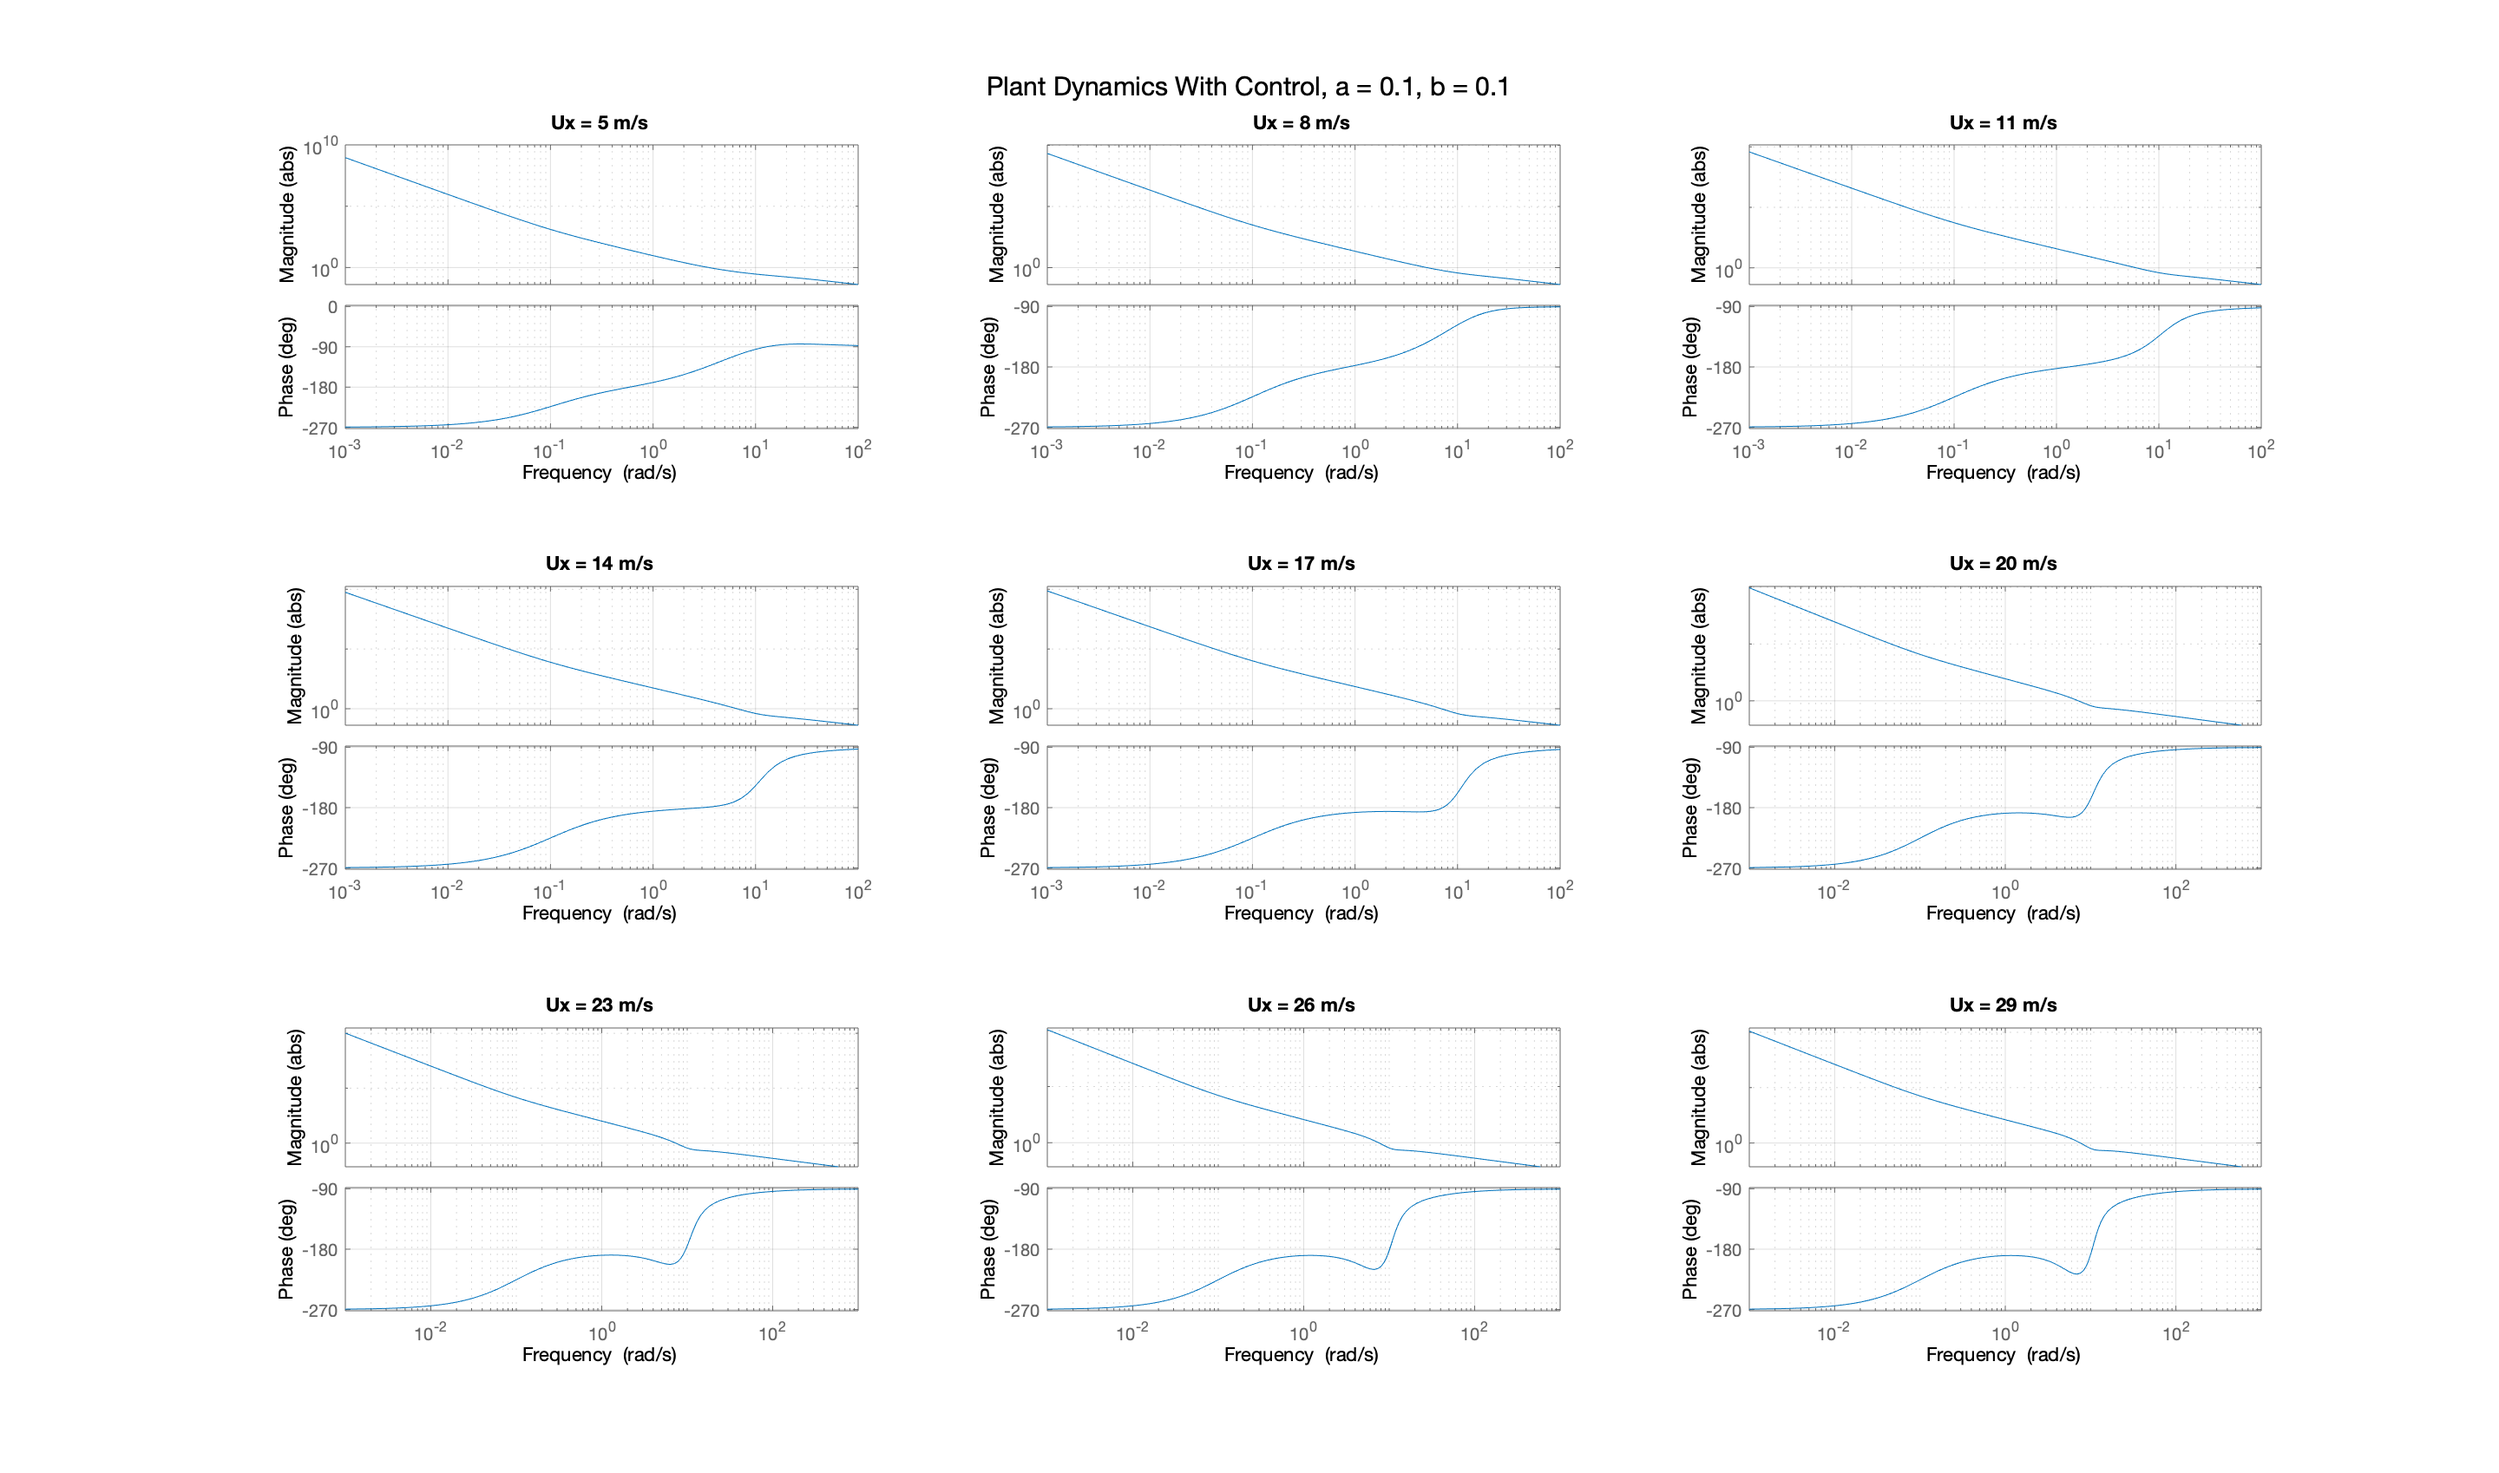
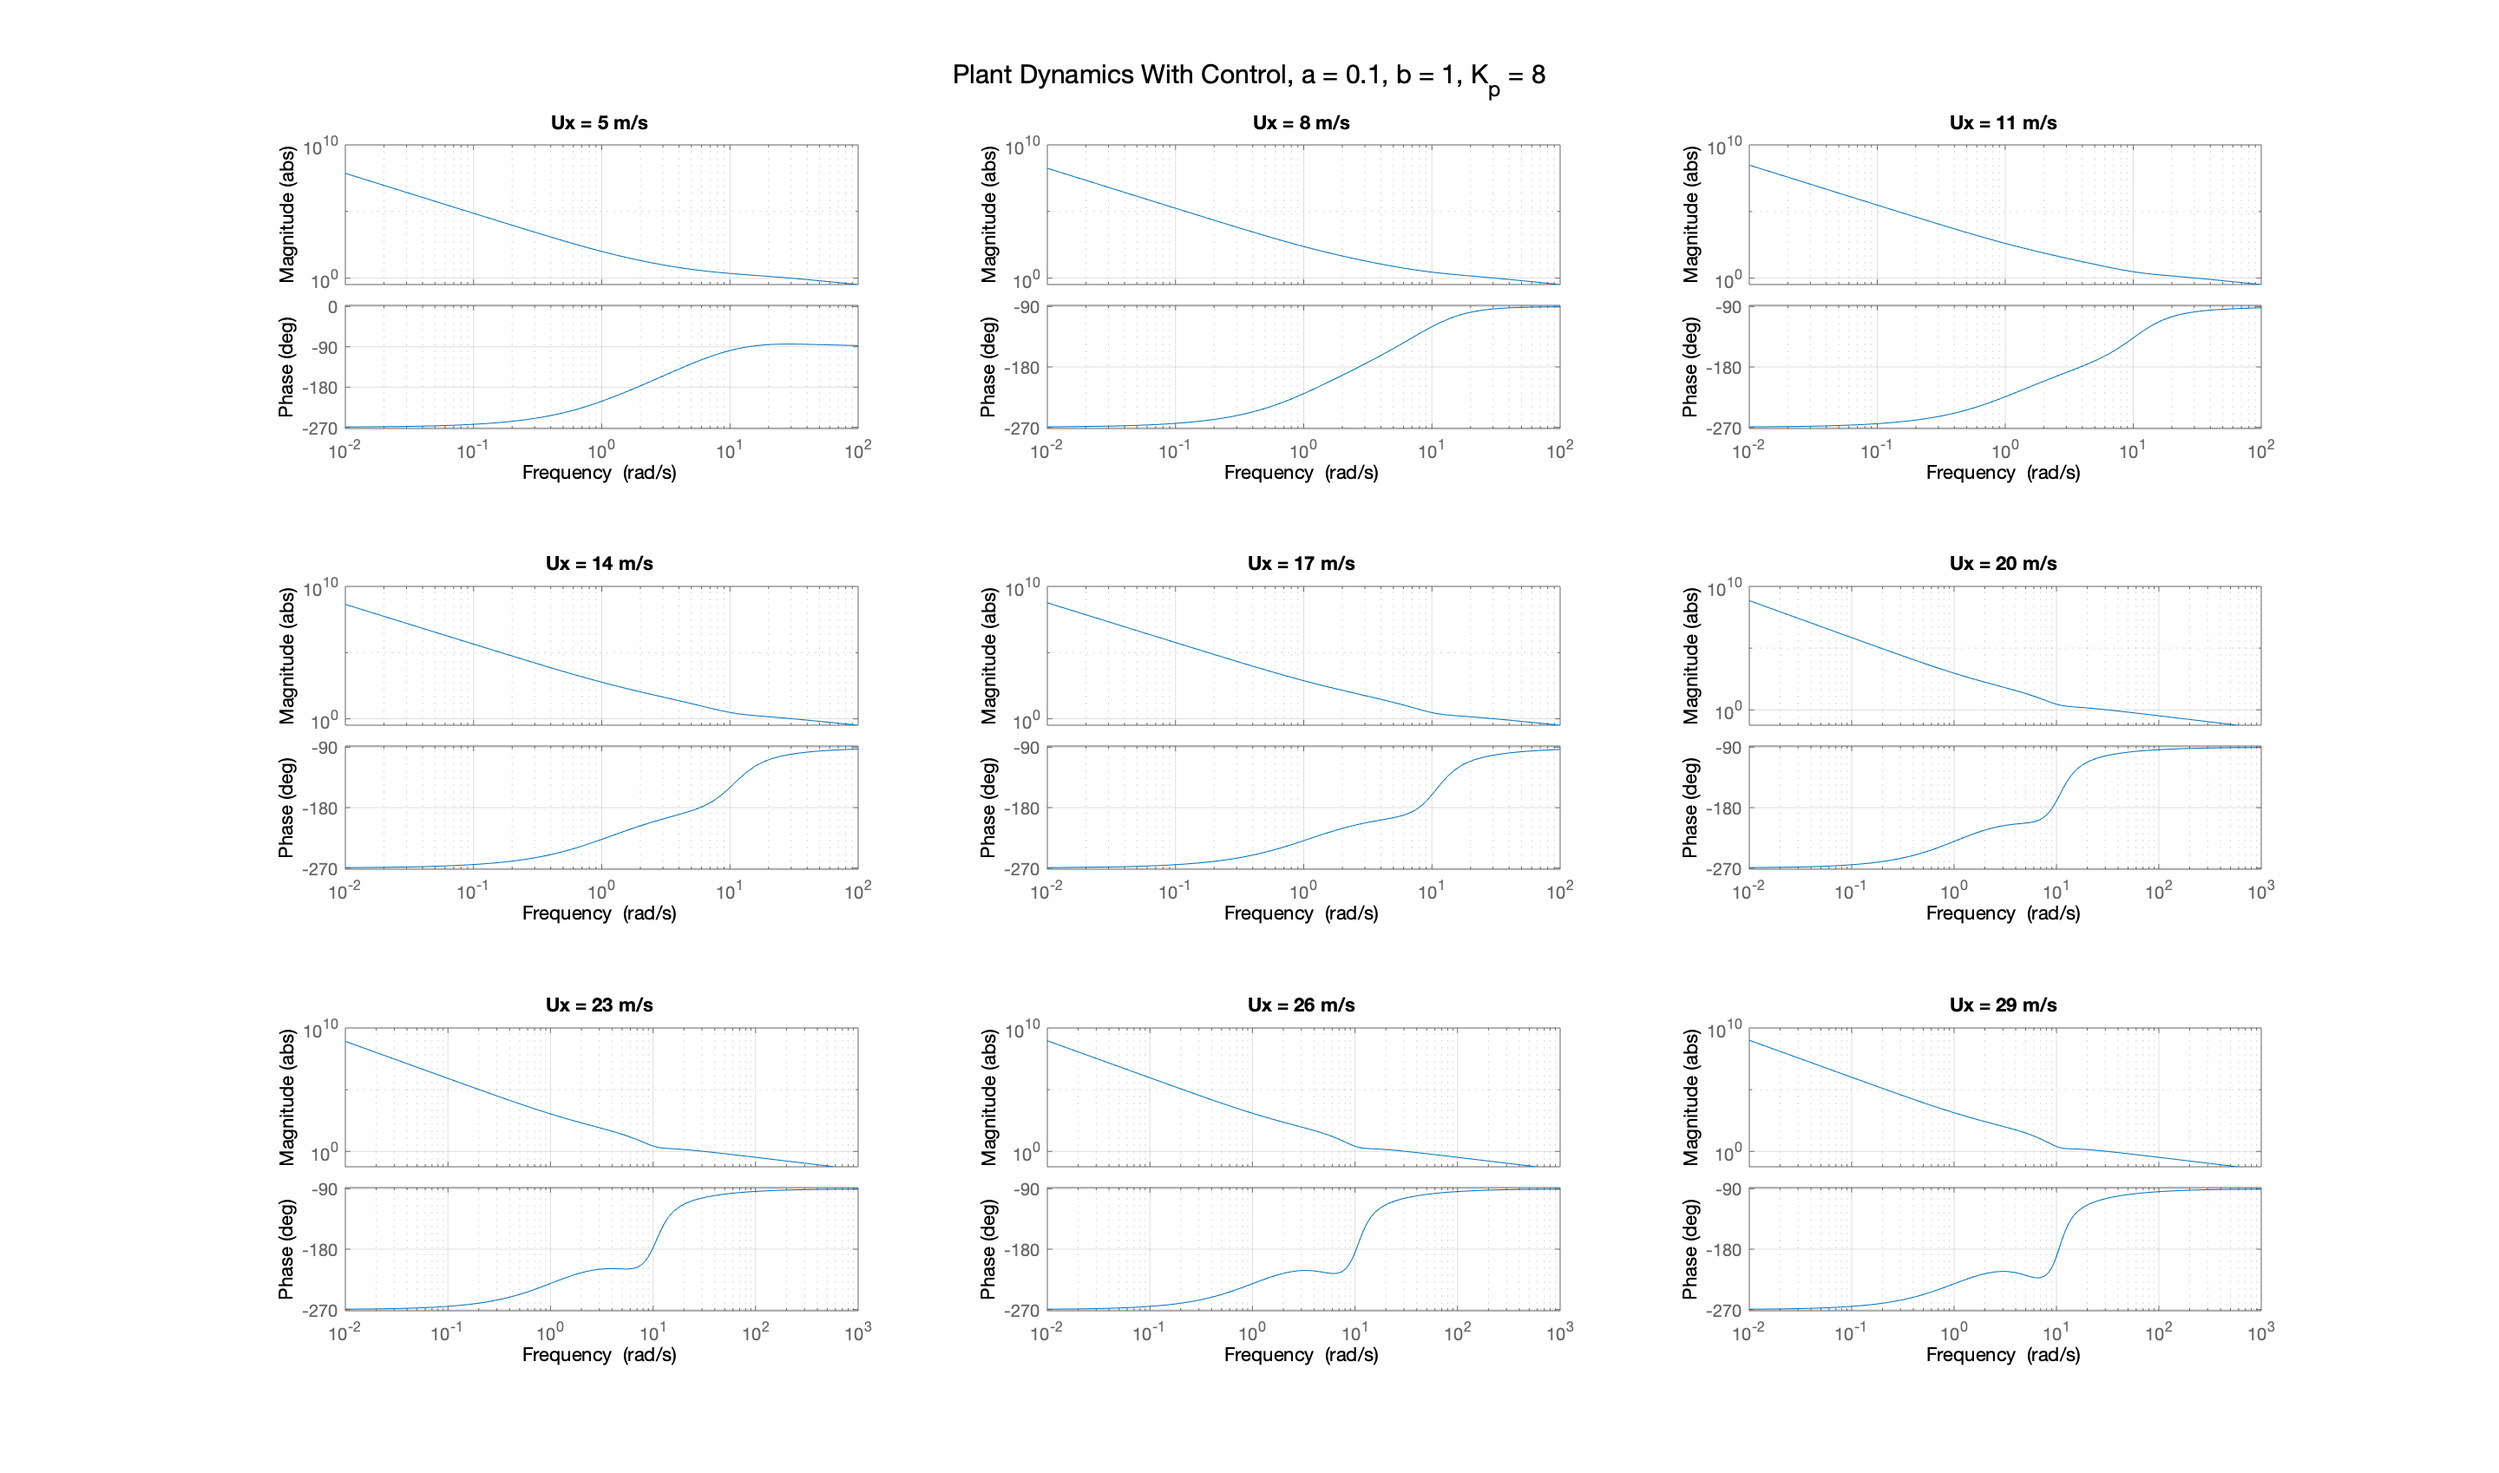
Run new simulations and generate plots, begin exploring how to generate bode plots for lookahead controller (not finished)

diff --git a/bode_for_lookahead.m b/bode_for_lookahead.m
@@ -1,6 +1,12 @@
 %--------------------------------------------------------------------------
 %% CONSTANTS AND PARAMS
 %--------------------------------------------------------------------------
+% !!! NOTE !!!  THIS DOESN'T CURRENTLY WORK; I THINK I DID BODE FOR THE
+% CLOSED-LOOP SYSTEM AND NEED TO DO IT FOR THE OPEN-LOOP SYSTEM AS I DID
+% FOR THE PID CONTROLLER.  NEED TO FIND A TRANSFER FUNCTION FOR THE
+% LOOKAHEAD CONTROLLER ON ITS OWN, THEN CAN COMBINE WITH THE PLANT DYNAMICS
+% LIKE FOR THE PID CONTROLLER.
+
 % Load Niki params
 setup_niki;
 
@@ -10,68 +16,14 @@ Ux_ = 5:3:29;       % [m/s] NOTE: make the number of iterable values have
                     
 lenUx = length(Ux_);
 
+% Controller gains
+K_la = 7000;              % [N/m]
+x_la = 12;                % [m]
+K_long = veh.m*.1*g;      % [N/m]
+
 %% GENERATE CONTROLLER TF
 s = tf('s');
-a = 0.1;
-b = 1;
-K_s = (a*s^2 + s + b) / s;
-K_p = 8;
-
-%% PLOT ROOT LOCI
-figure;
-plot_dim = ceil(sqrt(lenUx));
-subplot(plot_dim, plot_dim, 1);
-% sgtitle("Plant Dynamics Without Control");
-sgtitle("Plant Dynamics With Control, a = " + a + ", b = " + b);
-
-% Run for different Ux values
-for i = 1:lenUx
-    % Select speed
-    Ux = Ux_(i);
-
-    % CALCULATE PLANT DYNAMICS
-    % A = [aM,  bM,  cM,  dM]
-    %     [eM,  fM,  gM,  hM]
-    %     [iM,  jM,  kM,  lM]
-    %     [mM,  nM,  oM,  pM]
-    aM = 0;
-    bM = 1;
-    cM = 0;
-    dM = 0;
-    eM = 0;
-    fM = -(f_tire.Ca_lin + r_tire.Ca_lin)/(veh.m*Ux);
-    gM = (f_tire.Ca_lin + r_tire.Ca_lin)/veh.m;
-    hM = (-veh.a * f_tire.Ca_lin + veh.b*r_tire.Ca_lin)/(veh.m*Ux);
-    iM = 0;
-    jM = 0;
-    kM = 0;
-    lM = 1;
-    mM = 0;
-    nM = (veh.b * r_tire.Ca_lin - veh.a*f_tire.Ca_lin)/(veh.Iz*Ux);
-    oM = (veh.a * f_tire.Ca_lin - veh.b*r_tire.Ca_lin)/veh.Iz;
-    pM = -(veh.a^2 * f_tire.Ca_lin + veh.b^2 *r_tire.Ca_lin)/(veh.Iz*Ux);
-
-    A = [[aM,  bM,  cM,  dM];
-         [eM,  fM,  gM,  hM];
-         [iM,  jM,  kM,  lM];
-         [mM,  nM,  oM,  pM]];
-     
-    B = [0; f_tire.Ca_lin / veh.m; 0; veh.a * f_tire.Ca_lin / veh.Iz];
-    C = [1, 0, 0, 0];
-    D = [0];
-    
-    plant_sys = ss(A, B, C, D);
-    
-    subplot(plot_dim, plot_dim, i);
-    
-%     rlocus(plant_sys);
-    rlocus(plant_sys * K_s);
-    hold on;
-    xlabel('Real Axis')
-    ylabel('Imaginary Axis')
-    title("Ux = " + Ux + " m/s");
-    
-end
+controller = s;
 
 %% GENERATE BODE PLOTS OF FINAL CONTROL + PLANT
 opts = bodeoptions('cstprefs');
@@ -81,8 +33,7 @@ opts.Magscale = 'log';
 figure;
 plot_dim = ceil(sqrt(lenUx));
 subplot(plot_dim, plot_dim, 1);
-% sgtitle("Plant Dynamics Without Control");
-sgtitle("Plant Dynamics With Control, a = " + a + ", b = " + b + ", K_p = " + K_p);
+sgtitle("Bode of Plant With Lookahead Control");
 
 % Run for different Ux values
 for i = 1:lenUx
@@ -122,9 +73,9 @@ for i = 1:lenUx
     
     plant_sys = ss(A, B, C, D);
     
-    subplot(plot_dim, plot_dim, i);
+    subplot(controller * plant_sys, plot_dim, i);
     
-    bode(K_p * plant_sys * K_s, opts);
+    bode(full_sys, opts);
     hold on;
     grid on;
     title("Ux = " + Ux + " m/s");

diff --git a/me227_controller.m b/me227_controller.m
@@ -61,9 +61,7 @@ persistent int_e;
 dt = 0.005;             % Niki runs at 200Hz
 
 % Set control gains -- PID controller
-% gains.K_lat_p_PID = 0.1;         % [] TODO:  Fill in units here and tune
-% gains.K_lat_i_PID = 0.3;         % []        more thoughtfully
-% gains.K_lat_d_PID = 7;           % []
+% TODO:  Fill in units here and tune more thoughtfully
 gains.K_lat_p_PID = 8;
 gains.K_lat_i_PID = 8;
 gains.K_lat_d_PID = 0.8;
@@ -116,6 +114,8 @@ else  % custom controller
     
     de = Ux*sin(dpsi) + Uy*cos(dpsi);  % calculate derivative term
     
+    % Note:  the negative signs are because a positive lateral error is
+    % compensated for by a negative steering angle.
     lat_i = K_lat_i * -int_e;          % calculate integral contribution
     lat_p = K_lat_p * -e;              % calculate proportional contribution
     lat_d = K_lat_d * -de;             % calculate derivative contribution
